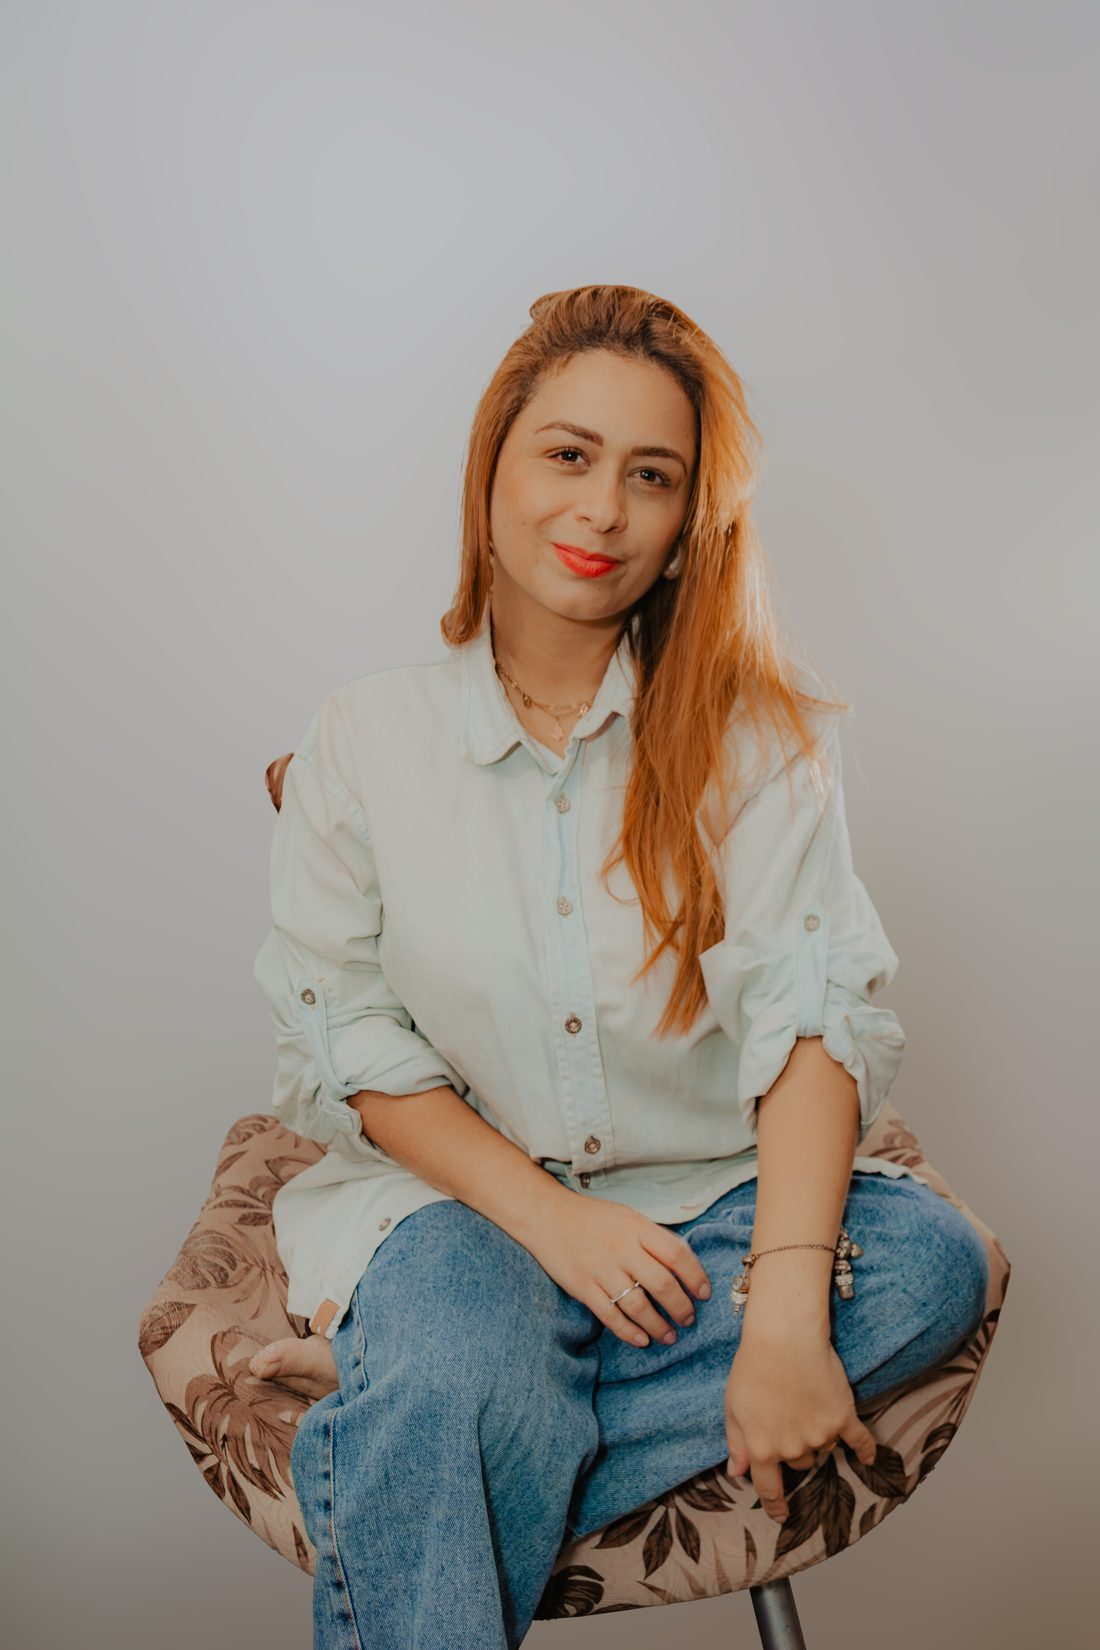
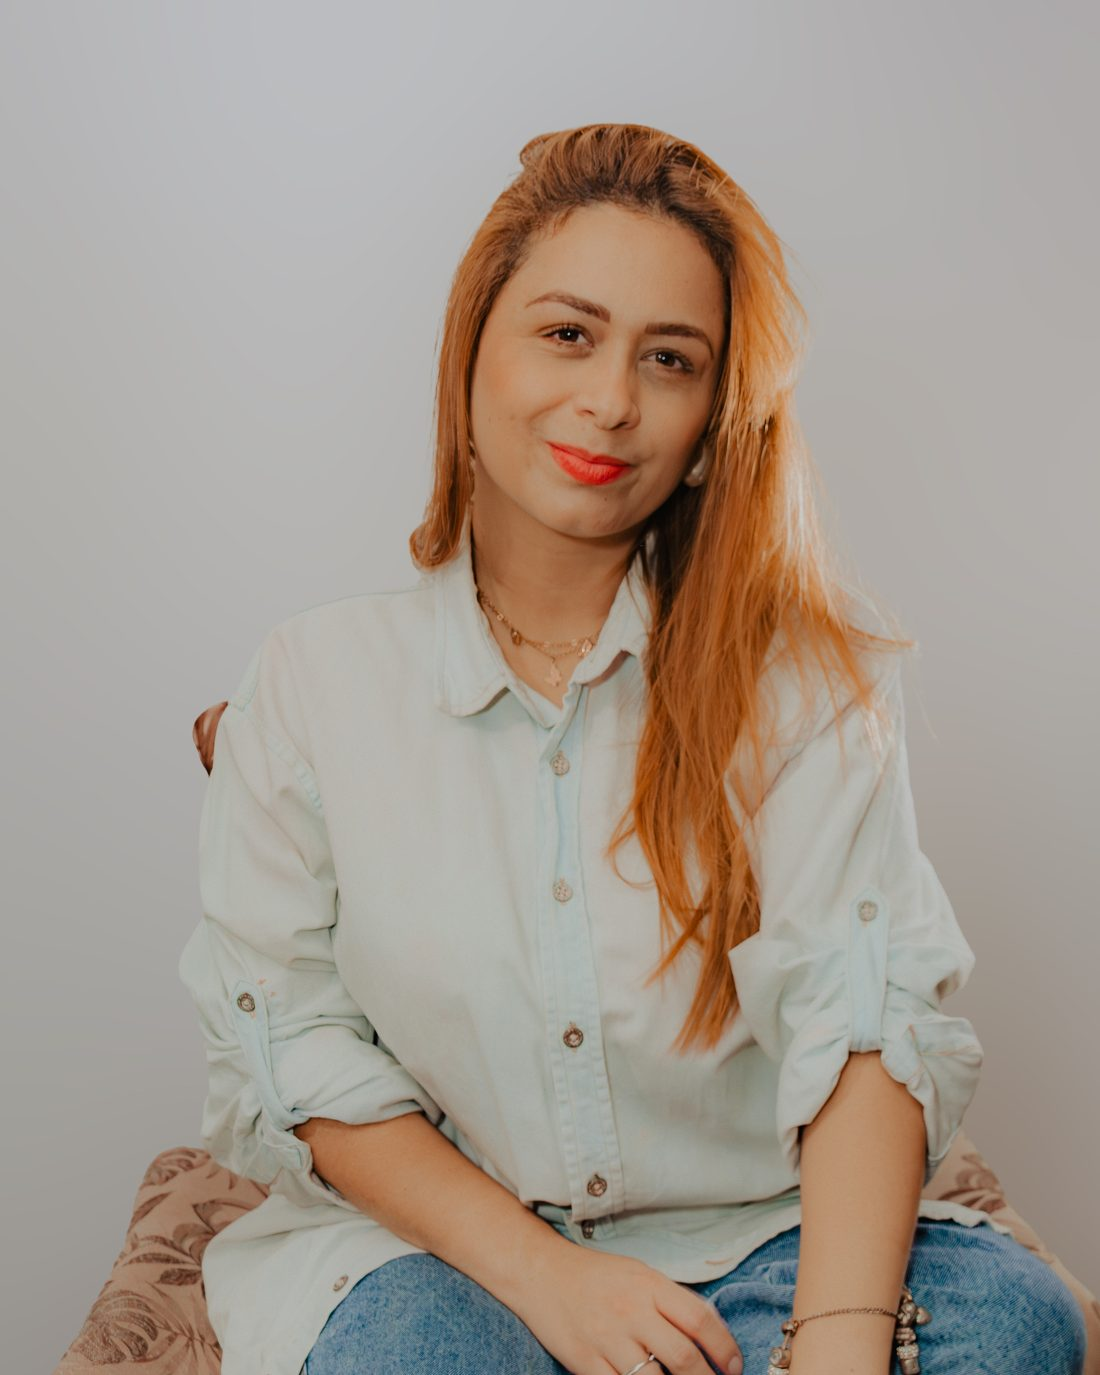
Foto reenquadrada e modo claro com fundo #e1a8a1

diff --git a/index.html b/index.html
@@ -5,7 +5,7 @@
 <meta name="viewport" content="width=device-width,initial-scale=1,viewport-fit=cover">
 <title>Rose Coutinho • Saúde &amp; Estética Avançada</title>
 <meta name="description" content="Rose Coutinho, esteticista e cosmetóloga em Taubaté. Agende pelo WhatsApp, siga no Instagram e veja como chegar.">
-<meta name="theme-color" content="#fdf5f5">
+<meta name="theme-color" content="#e1a8a1">
 <meta property="og:title" content="Rose Coutinho • Saúde & Estética Avançada">
 <meta property="og:description" content="Agende pelo WhatsApp, siga no Instagram e veja como chegar.">
 <meta property="og:image" content="foto-rose.jpg">
@@ -15,8 +15,8 @@
 <link href="https://fonts.googleapis.com/css2?family=Josefin+Sans:wght@300;400;600&family=Mulish:wght@400;600;700&display=swap" rel="stylesheet">
 <style>
 :root{
-  --bg:#fdf5f5;--surface:#fffdfd;--tint:#f4dfe2;--fg:#3b2a2e;--muted:#7d6268;--line:#ecd5d9;
-  --accent:#b76e79;--btn:#a85d6a;--link:#96495a;--glass:rgba(255,253,253,.72);
+  --bg:#e1a8a1;--surface:#f3d3cf;--tint:#f0c9c4;--fg:#3b2a2e;--muted:#4f363c;--line:#c9877f;
+  --accent:#8a3f50;--btn:#8f4256;--link:#7a3347;--glass:rgba(255,246,244,.55);
   --display:'Josefin Sans',sans-serif;--body:'Mulish',system-ui,sans-serif;
 }
 :root[data-theme=dark]{
@@ -41,7 +41,7 @@ header span{width:40px}
 
 .hero{position:relative;border-radius:28px;overflow:hidden;aspect-ratio:4/5;background:var(--tint);
   box-shadow:0 20px 50px -24px rgba(145,48,77,.45)}
-.hero>img{position:absolute;inset:0;width:100%;height:100%;object-fit:cover;object-position:50% 8%}
+.hero>img{position:absolute;inset:0;width:100%;height:100%;object-fit:cover;object-position:50% 20%}
 .hero::after{content:"";position:absolute;inset:0;
   background:linear-gradient(to top,rgba(120,36,62,.96) 0%,rgba(145,48,77,.85) 28%,rgba(183,110,121,.4) 46%,rgba(183,110,121,0) 62%)}
 .hero .txt{position:absolute;left:0;right:0;bottom:0;z-index:1;padding:22px 22px 24px;color:#fff;text-align:center}
@@ -155,7 +155,7 @@ footer{text-align:center;font-size:12px;color:var(--muted);padding-top:6px}
   </header>
 
   <section class="hero">
-    <img src="foto-rose.jpg" alt="Rose Coutinho" width="1100" height="1650" fetchpriority="high">
+    <img src="foto-rose.jpg" alt="Rose Coutinho" width="1100" height="1375" fetchpriority="high">
     <div class="txt">
       <svg class="wm" viewBox="0 0 1207.54 320" role="img" aria-label="Rose Coutinho - saúde e estética avançada" fill="#fff">
         <defs>
@@ -206,7 +206,7 @@ footer{text-align:center;font-size:12px;color:var(--muted);padding-top:6px}
 <script>
 (function(){
   var r=document.documentElement,m=document.querySelector('meta[name=theme-color]'),k='rose-tema';
-  function set(t){r.dataset.theme=t;m.content=t==='dark'?'#2a0e18':'#fdf5f5'}
+  function set(t){r.dataset.theme=t;m.content=t==='dark'?'#2a0e18':'#e1a8a1'}
   var s;try{s=localStorage.getItem(k)}catch(e){}
   set(s||(matchMedia('(prefers-color-scheme:dark)').matches?'dark':'light'));
   document.getElementById('tema').onclick=function(){
